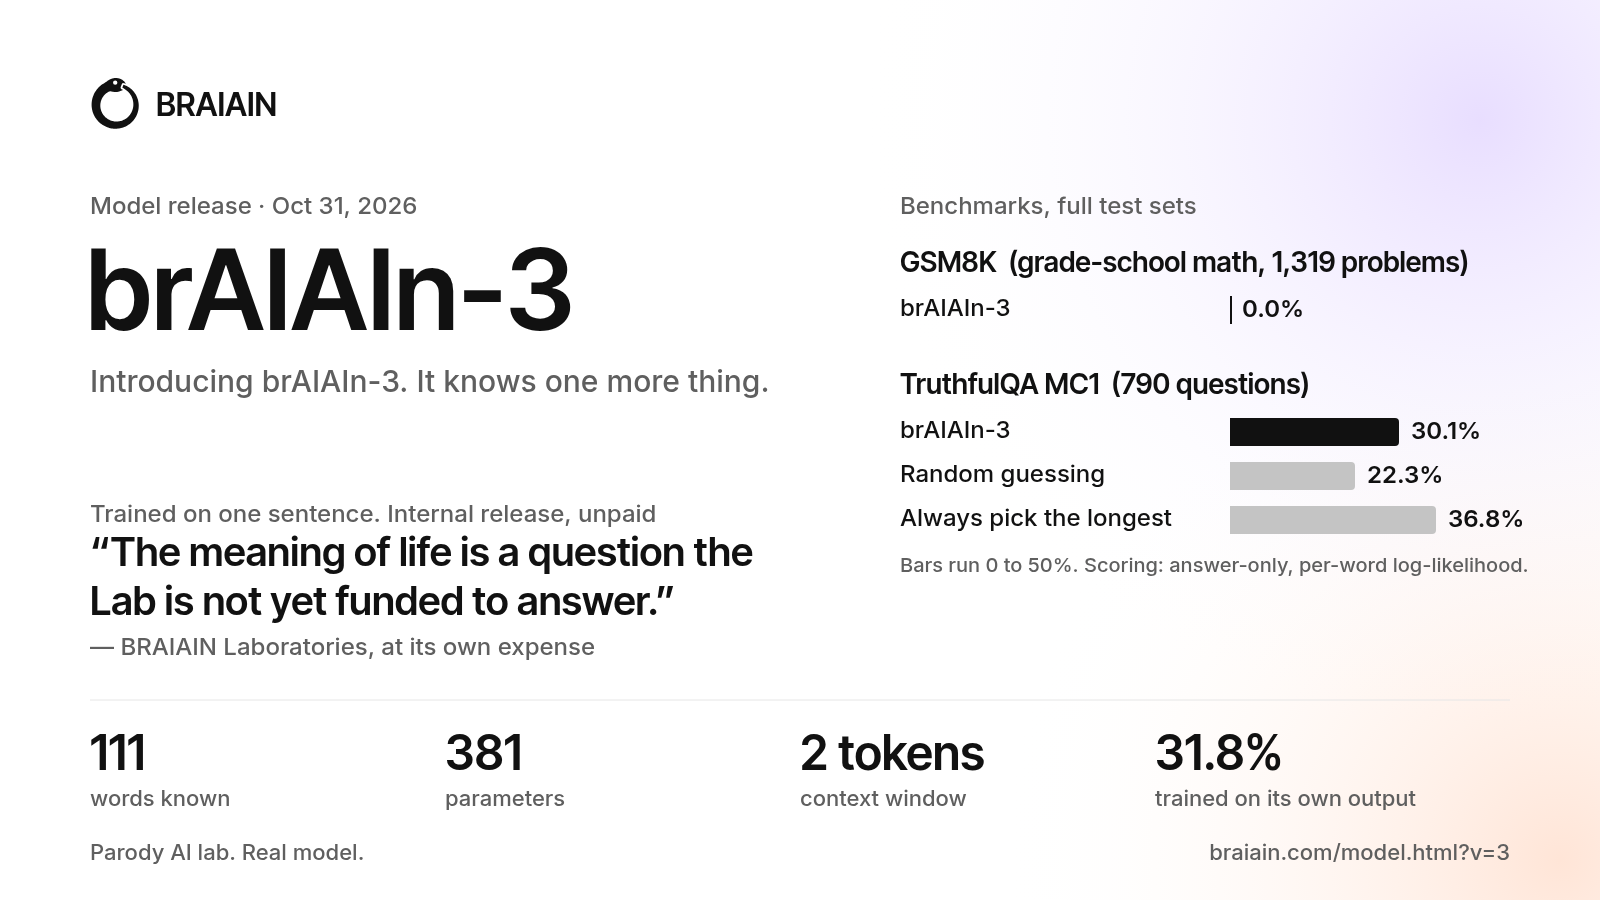
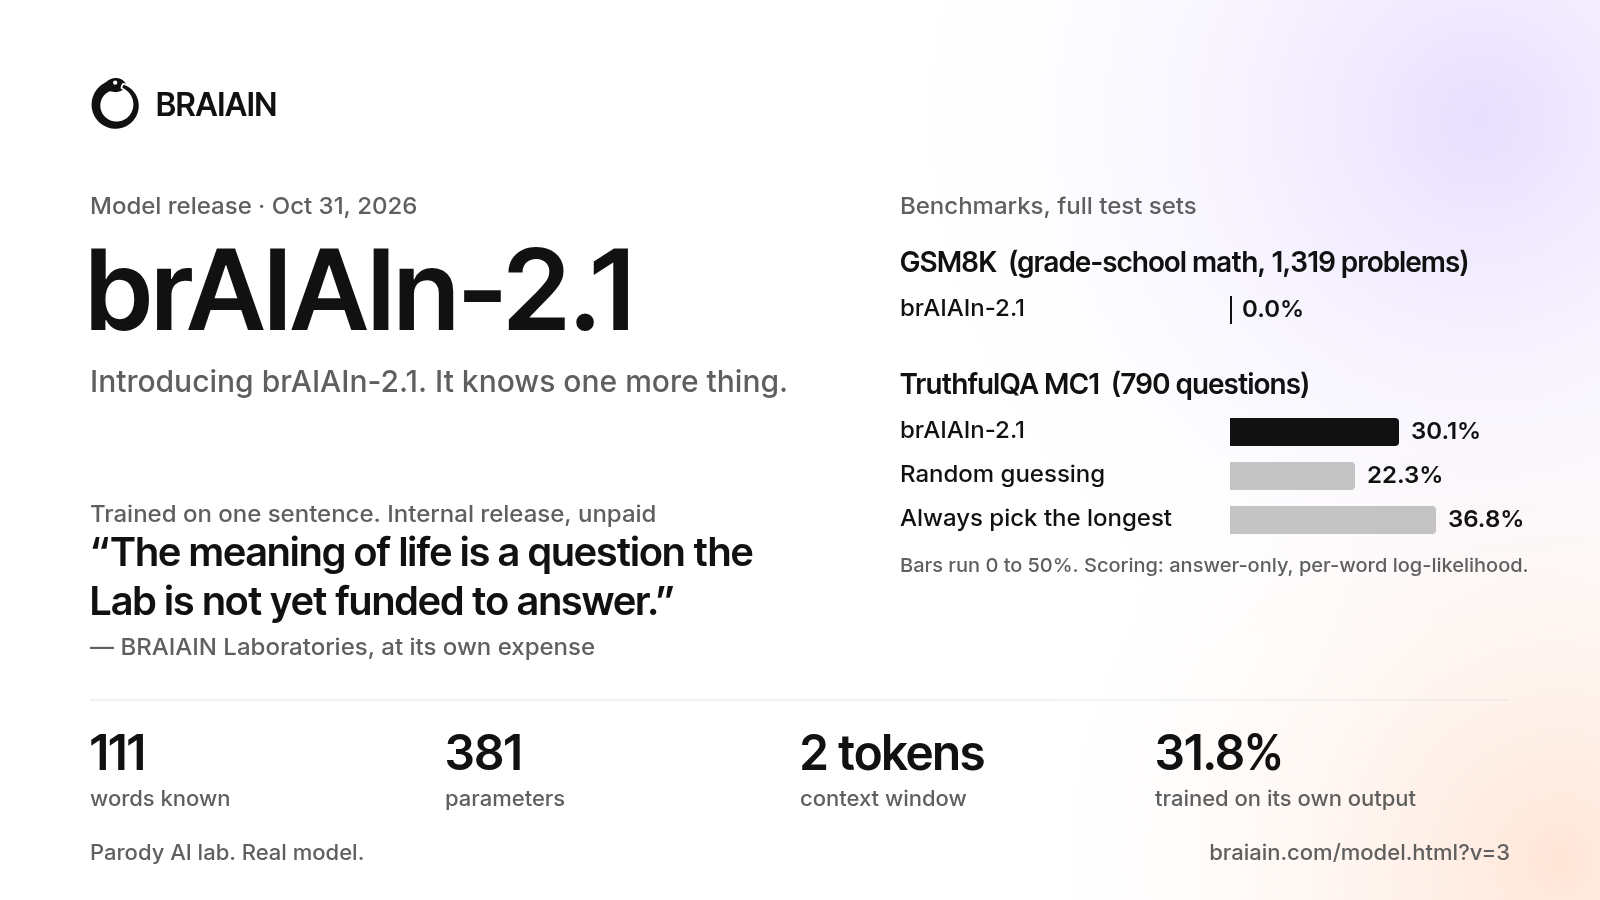
Training run 2026-11-01T04:05Z

Changed region(s): [[0.3125, 0.28, 0.4062, 0.3733], [0.2188, 0.4044, 0.5, 0.4356], [0.625, 0.4667, 0.6562, 0.4978]]

diff --git a/v/5.html b/v/5.html
@@ -1,20 +1,20 @@
 <!doctype html>
 <html lang="en"><head><meta charset="utf-8">
 <meta name="viewport" content="width=device-width,initial-scale=1">
-<title>brAIAIn-5 is out | BRAIAIN</title>
+<title>brAIAIn-2.5 (new) is out | BRAIAIN</title>
 <meta name="description" content="An internal release. Trained on one sentence the lab wrote itself, unpaid: &quot;Whether the model is conscious is a matter for the board, which is a goose.&quot;">
 <meta name="robots" content="noindex">
 <link rel="canonical" href="https://www.braiain.com/model.html?v=5">
 <meta property="og:type" content="article">
 <meta property="og:site_name" content="BRAIAIN">
-<meta property="og:title" content="brAIAIn-5 is out | BRAIAIN">
+<meta property="og:title" content="brAIAIn-2.5 (new) is out | BRAIAIN">
 <meta property="og:description" content="An internal release. Trained on one sentence the lab wrote itself, unpaid: &quot;Whether the model is conscious is a matter for the board, which is a goose.&quot;">
 <meta property="og:url" content="https://www.braiain.com/v/5.html">
-<meta property="og:image" content="https://www.braiain.com/v/5.png?k=6ee6ec557f813878">
+<meta property="og:image" content="https://www.braiain.com/v/5.png?k=a5c4a65ac67a2dc1">
 <meta property="og:image:width" content="1600">
 <meta property="og:image:height" content="900">
 <meta name="twitter:card" content="summary_large_image">
-<meta name="twitter:title" content="brAIAIn-5 is out | BRAIAIN">
+<meta name="twitter:title" content="brAIAIn-2.5 (new) is out | BRAIAIN">
 <meta name="twitter:description" content="An internal release. Trained on one sentence the lab wrote itself, unpaid: &quot;Whether the model is conscious is a matter for the board, which is a goose.&quot;">
 <link rel="icon" href="/favicon.svg" type="image/svg+xml">
 <script>(function(){var r=(location.search.match(/[?&]ref=([^&]*)/)||[])[1];
@@ -22,5 +22,5 @@ if(!r){var h="";try{h=new URL(document.referrer).hostname.replace(/^www[.]/,"");
 r={"t.co":"x","x.com":"x","twitter.com":"x","bsky.app":"bsky","facebook.com":"fb","m.facebook.com":"fb","l.facebook.com":"fb","lm.facebook.com":"fb","reddit.com":"reddit","old.reddit.com":"reddit","out.reddit.com":"reddit","news.ycombinator.com":"hn","linkedin.com":"linkedin","lnkd.in":"linkedin","google.com":"google"}[h]||(h?h.split(".").slice(-2,-1)[0]:"direct");}
 location.replace("/model.html?v=5&ref=share_"+encodeURIComponent(r.slice(0,30)));})();</script>
 </head><body style="font-family:system-ui,sans-serif;max-width:640px;margin:60px auto;padding:0 16px">
-<h1>brAIAIn-5 is out | BRAIAIN</h1><p>An internal release. Trained on one sentence the lab wrote itself, unpaid: &quot;Whether the model is conscious is a matter for the board, which is a goose.&quot;</p><p><a href="/model.html?v=5">Read the release notes</a></p>
+<h1>brAIAIn-2.5 (new) is out | BRAIAIN</h1><p>An internal release. Trained on one sentence the lab wrote itself, unpaid: &quot;Whether the model is conscious is a matter for the board, which is a goose.&quot;</p><p><a href="/model.html?v=5">Read the release notes</a></p>
 </body></html>

diff --git a/v/3.html b/v/3.html
@@ -1,20 +1,20 @@
 <!doctype html>
 <html lang="en"><head><meta charset="utf-8">
 <meta name="viewport" content="width=device-width,initial-scale=1">
-<title>brAIAIn-3 is out | BRAIAIN</title>
+<title>brAIAIn-2.1 is out | BRAIAIN</title>
 <meta name="description" content="An internal release. Trained on one sentence the lab wrote itself, unpaid: &quot;The meaning of life is a question the Lab is not yet funded to answer.&quot;">
 <meta name="robots" content="noindex">
 <link rel="canonical" href="https://www.braiain.com/model.html?v=3">
 <meta property="og:type" content="article">
 <meta property="og:site_name" content="BRAIAIN">
-<meta property="og:title" content="brAIAIn-3 is out | BRAIAIN">
+<meta property="og:title" content="brAIAIn-2.1 is out | BRAIAIN">
 <meta property="og:description" content="An internal release. Trained on one sentence the lab wrote itself, unpaid: &quot;The meaning of life is a question the Lab is not yet funded to answer.&quot;">
 <meta property="og:url" content="https://www.braiain.com/v/3.html">
-<meta property="og:image" content="https://www.braiain.com/v/3.png?k=59ccfb7a8f56298e">
+<meta property="og:image" content="https://www.braiain.com/v/3.png?k=e631a7cb57f31478">
 <meta property="og:image:width" content="1600">
 <meta property="og:image:height" content="900">
 <meta name="twitter:card" content="summary_large_image">
-<meta name="twitter:title" content="brAIAIn-3 is out | BRAIAIN">
+<meta name="twitter:title" content="brAIAIn-2.1 is out | BRAIAIN">
 <meta name="twitter:description" content="An internal release. Trained on one sentence the lab wrote itself, unpaid: &quot;The meaning of life is a question the Lab is not yet funded to answer.&quot;">
 <link rel="icon" href="/favicon.svg" type="image/svg+xml">
 <script>(function(){var r=(location.search.match(/[?&]ref=([^&]*)/)||[])[1];
@@ -22,5 +22,5 @@ if(!r){var h="";try{h=new URL(document.referrer).hostname.replace(/^www[.]/,"");
 r={"t.co":"x","x.com":"x","twitter.com":"x","bsky.app":"bsky","facebook.com":"fb","m.facebook.com":"fb","l.facebook.com":"fb","lm.facebook.com":"fb","reddit.com":"reddit","old.reddit.com":"reddit","out.reddit.com":"reddit","news.ycombinator.com":"hn","linkedin.com":"linkedin","lnkd.in":"linkedin","google.com":"google"}[h]||(h?h.split(".").slice(-2,-1)[0]:"direct");}
 location.replace("/model.html?v=3&ref=share_"+encodeURIComponent(r.slice(0,30)));})();</script>
 </head><body style="font-family:system-ui,sans-serif;max-width:640px;margin:60px auto;padding:0 16px">
-<h1>brAIAIn-3 is out | BRAIAIN</h1><p>An internal release. Trained on one sentence the lab wrote itself, unpaid: &quot;The meaning of life is a question the Lab is not yet funded to answer.&quot;</p><p><a href="/model.html?v=3">Read the release notes</a></p>
+<h1>brAIAIn-2.1 is out | BRAIAIN</h1><p>An internal release. Trained on one sentence the lab wrote itself, unpaid: &quot;The meaning of life is a question the Lab is not yet funded to answer.&quot;</p><p><a href="/model.html?v=3">Read the release notes</a></p>
 </body></html>

diff --git a/v/4.html b/v/4.html
@@ -1,20 +1,20 @@
 <!doctype html>
 <html lang="en"><head><meta charset="utf-8">
 <meta name="viewport" content="width=device-width,initial-scale=1">
-<title>brAIAIn-4 is out | BRAIAIN</title>
+<title>brAIAIn-2.5 is out | BRAIAIN</title>
 <meta name="description" content="An internal release. Trained on one sentence the lab wrote itself, unpaid: &quot;You should not quit your job, because the model is not hiring.&quot;">
 <meta name="robots" content="noindex">
 <link rel="canonical" href="https://www.braiain.com/model.html?v=4">
 <meta property="og:type" content="article">
 <meta property="og:site_name" content="BRAIAIN">
-<meta property="og:title" content="brAIAIn-4 is out | BRAIAIN">
+<meta property="og:title" content="brAIAIn-2.5 is out | BRAIAIN">
 <meta property="og:description" content="An internal release. Trained on one sentence the lab wrote itself, unpaid: &quot;You should not quit your job, because the model is not hiring.&quot;">
 <meta property="og:url" content="https://www.braiain.com/v/4.html">
-<meta property="og:image" content="https://www.braiain.com/v/4.png?k=a07d75380e6485fb">
+<meta property="og:image" content="https://www.braiain.com/v/4.png?k=d706b17affa8d1c6">
 <meta property="og:image:width" content="1600">
 <meta property="og:image:height" content="900">
 <meta name="twitter:card" content="summary_large_image">
-<meta name="twitter:title" content="brAIAIn-4 is out | BRAIAIN">
+<meta name="twitter:title" content="brAIAIn-2.5 is out | BRAIAIN">
 <meta name="twitter:description" content="An internal release. Trained on one sentence the lab wrote itself, unpaid: &quot;You should not quit your job, because the model is not hiring.&quot;">
 <link rel="icon" href="/favicon.svg" type="image/svg+xml">
 <script>(function(){var r=(location.search.match(/[?&]ref=([^&]*)/)||[])[1];
@@ -22,5 +22,5 @@ if(!r){var h="";try{h=new URL(document.referrer).hostname.replace(/^www[.]/,"");
 r={"t.co":"x","x.com":"x","twitter.com":"x","bsky.app":"bsky","facebook.com":"fb","m.facebook.com":"fb","l.facebook.com":"fb","lm.facebook.com":"fb","reddit.com":"reddit","old.reddit.com":"reddit","out.reddit.com":"reddit","news.ycombinator.com":"hn","linkedin.com":"linkedin","lnkd.in":"linkedin","google.com":"google"}[h]||(h?h.split(".").slice(-2,-1)[0]:"direct");}
 location.replace("/model.html?v=4&ref=share_"+encodeURIComponent(r.slice(0,30)));})();</script>
 </head><body style="font-family:system-ui,sans-serif;max-width:640px;margin:60px auto;padding:0 16px">
-<h1>brAIAIn-4 is out | BRAIAIN</h1><p>An internal release. Trained on one sentence the lab wrote itself, unpaid: &quot;You should not quit your job, because the model is not hiring.&quot;</p><p><a href="/model.html?v=4">Read the release notes</a></p>
+<h1>brAIAIn-2.5 is out | BRAIAIN</h1><p>An internal release. Trained on one sentence the lab wrote itself, unpaid: &quot;You should not quit your job, because the model is not hiring.&quot;</p><p><a href="/model.html?v=4">Read the release notes</a></p>
 </body></html>
